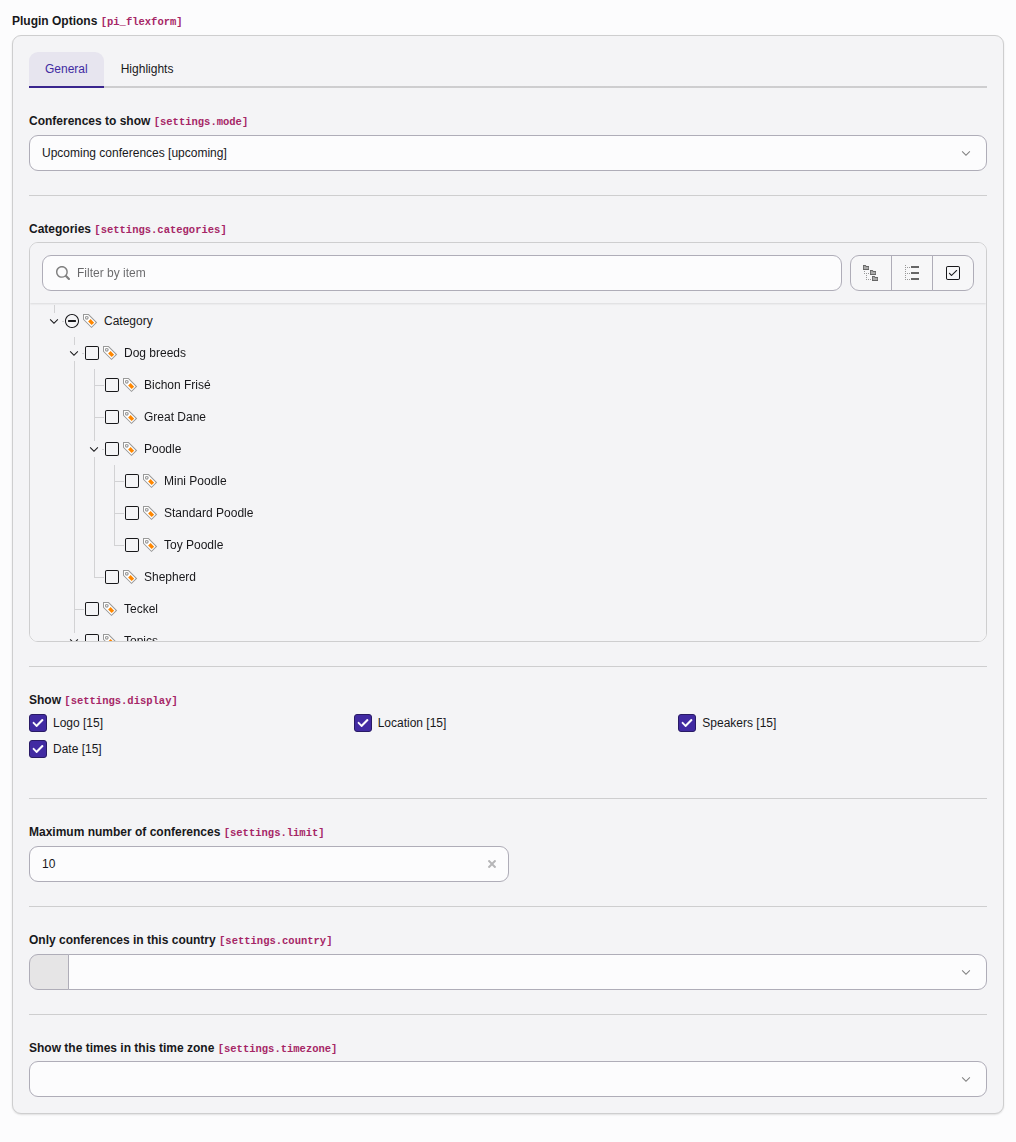
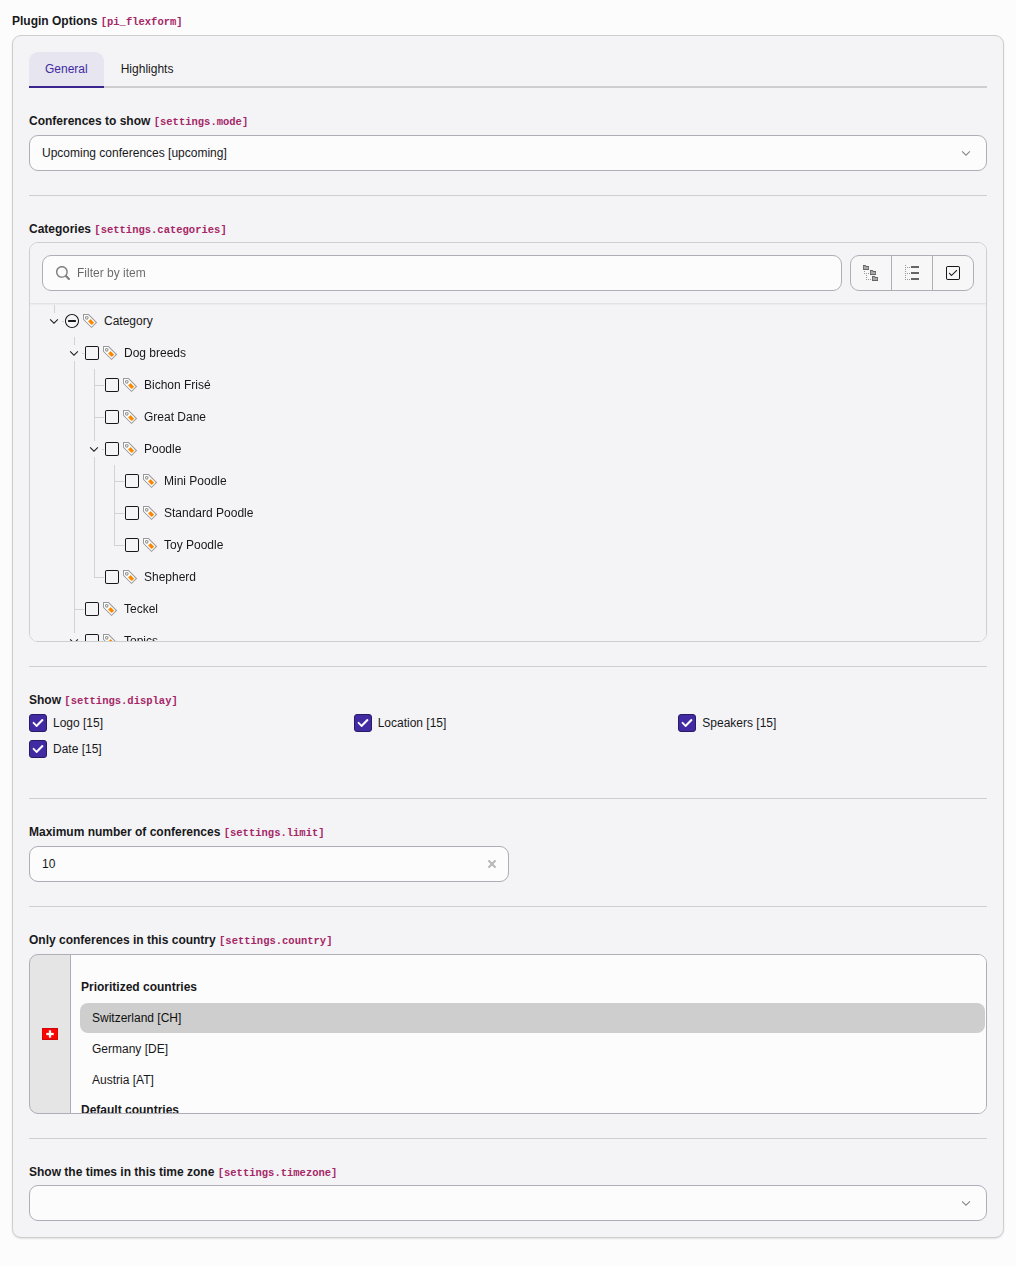
[Backport 14.3] [TASK] Replace the remaining manual screenshots with the conference extension (#1659)
The manual screenshots of the password generator, the country size, the
default language differences, and the custom form wizard showed records
of the styleguide or of tt_content. Nobody can take them again for a new
TYPO3 version. The conference extension now provides these screenshots:

- A new field wizard above the conference form shows how many records
  refer to the conference. It replaces the wizard snippets of the ctrl
  examples.
- The FlexForm of the plugin shows the country field as a box with a
  size of 4.
- After the translation, a track is added to the default conference, so
  that the translation shows the difference.
- The password screenshots show a generated password and the field after
  saving.

On 14.3, make screenshots takes the screenshots from TYPO3 14.3.

Releases: main, 14.3
Assisted-by: Claude Opus 5.5 <noreply@anthropic.com>
(cherry picked from commit fb77076b97bedaabc33cb62917a4d34afa7beb62)

diff --git a/Documentation/CodeSnippets/my_extension/Classes/Form/FieldWizard/ReferencesToThisRecordWizard.php b/Documentation/CodeSnippets/my_extension/Classes/Form/FieldWizard/ReferencesToThisRecordWizard.php
@@ -1,0 +1,40 @@
+<?php
+
+declare(strict_types=1);
+
+namespace MyVendor\MyExtension\Form\FieldWizard;
+
+use TYPO3\CMS\Backend\Form\AbstractNode;
+use TYPO3\CMS\Core\Database\ReferenceIndex;
+use TYPO3\CMS\Core\Localization\LanguageService;
+
+/**
+ * Shows above the form how many records refer to the edited record
+ */
+final class ReferencesToThisRecordWizard extends AbstractNode
+{
+  public function __construct(
+    private readonly ReferenceIndex $referenceIndex,
+  ) {}
+
+  public function render(): array
+  {
+    $result = $this->initializeResultArray();
+    $uid = (int)($this->data['databaseRow']['uid'] ?? 0);
+    if ($uid === 0) {
+      // A new record has no references yet
+      return $result;
+    }
+    $count = $this->referenceIndex->getNumberOfReferencedRecords($this->data['tableName'], $uid);
+    $result['html'] = '<p class="text-body-secondary">' . htmlspecialchars(sprintf(
+      $this->getLanguageService()->sL('my_extension.db:references'),
+      $count,
+    )) . '</p>';
+    return $result;
+  }
+
+  private function getLanguageService(): LanguageService
+  {
+    return $GLOBALS['LANG'];
+  }
+}

diff --git a/Build/Screenshots/create-records.php b/Build/Screenshots/create-records.php
@@ -78,7 +78,10 @@ $data['tt_content'] = [
     'NEWplugin' => [
         'pid' => 1, 'CType' => 'myextension_conferencelist', 'header' => 'Upcoming conferences',
         'pi_flexform' => ['data' => [
-            'sDEF' => ['lDEF' => ['settings.mode' => ['vDEF' => 'upcoming']]],
+            'sDEF' => ['lDEF' => [
+                'settings.mode' => ['vDEF' => 'upcoming'],
+                'settings.country' => ['vDEF' => 'CH'],
+            ]],
             'sHighlights' => ['lDEF' => [
                 'settings.introduction' => ['vDEF' => '<p>Meet the community in Basel and Leipzig.</p>'],
                 'settings.highlights' => ['el' => [
@@ -321,6 +324,12 @@ $process([
         ],
     ],
 ]);
+
+// A change of the default language after the translation, which the
+// translation shows as a difference
+$process(['tx_myextension_conference' => [$conference => [
+    'tracks' => "Backend\nFrontend\nCommunity\nEditing",
+]]]);
 
 // The label of a comment shows its creation date, which must not change
 // with every run

diff --git a/Documentation/CodeSnippets/my_extension/ext_localconf.php b/Documentation/CodeSnippets/my_extension/ext_localconf.php
@@ -6,6 +6,7 @@ use MyVendor\MyExtension\Evaluation\HashtagEvaluation;
 use MyVendor\MyExtension\Form\Element\BadgeNameElement;
 use MyVendor\MyExtension\Form\FieldInformation\InformationText;
 use MyVendor\MyExtension\Form\FieldInformation\TalkOrderInformation;
+use MyVendor\MyExtension\Form\FieldWizard\ReferencesToThisRecordWizard;
 use TYPO3\CMS\Extbase\Utility\ExtensionUtility;
 
 defined('TYPO3') or die();
@@ -42,4 +43,12 @@ $GLOBALS['TYPO3_CONF_VARS']['SYS']['formEngine']['nodeRegistry'][1791310000] = [
   'nodeName' => 'informationText',
   'priority' => 30,
   'class' => InformationText::class,
+];
+
+// The references to a conference above its form, see
+// Configuration/TCA/Overrides/101-tx_myextension_conference-references.php
+$GLOBALS['TYPO3_CONF_VARS']['SYS']['formEngine']['nodeRegistry'][1791320000] = [
+  'nodeName' => 'referencesToThisRecord',
+  'priority' => 30,
+  'class' => ReferencesToThisRecordWizard::class,
 ];

diff --git a/Documentation/CodeSnippets/my_extension/Configuration/TCA/Overrides/101-tx_myextension_conference-references.php b/Documentation/CodeSnippets/my_extension/Configuration/TCA/Overrides/101-tx_myextension_conference-references.php
@@ -1,0 +1,10 @@
+<?php
+
+defined('TYPO3') or die();
+
+// Above the form of a conference, show how many records refer to it
+$GLOBALS['TCA']['tx_myextension_conference']['ctrl']['container']['formWrapContainer']
+  ['fieldWizard']['referencesToThisRecord'] = [
+    // Registered in ext_localconf.php
+    'renderType' => 'referencesToThisRecord',
+  ];

diff --git a/Documentation/Ctrl/Examples.rst b/Documentation/Ctrl/Examples.rst
@@ -95,21 +95,30 @@ This disables the default `localizationStateSelector` fieldWizard of
 Add your own wizard
 -------------------
 
-Register an own node in a :file:`ext_localconf.php`:
+The form of a conference shows how many records refer to the conference.
+The `FormWrapContainer` renders this wizard above the fields:
 
-..  literalinclude:: _CodeSnippets/_WizardRegistration/_ext_localconf.php
+..  figure:: /Images/Conference/FieldWizardReferences.png
+    :alt: The number of records that refer to a conference above its form
+    :class: with-shadow
+
+    The number of records that refer to a conference above its form
+
+Register the node in the file :file:`ext_localconf.php`:
+
+..  literalinclude:: /CodeSnippets/my_extension/ext_localconf.php
     :caption: EXT:my_extension/ext_localconf.php
+    :emphasize-lines: 9,50-54
 
-Register the new node as `fieldWizard` of `tt_content` table in an
-:file:`Configuration/TCA/Overrides/tt_content.php` file:
+Add the node as a `fieldWizard` of the `formWrapContainer`:
 
-..  literalinclude:: _CodeSnippets/_WizardRegistration/_tca_overrides.php
-    :caption: EXT:my_extension/Configuration/TCA/Overrides/tt_content.php
+..  literalinclude:: /CodeSnippets/my_extension/Configuration/TCA/Overrides/101-tx_myextension_conference-references.php
+    :caption: EXT:my_extension/Configuration/TCA/Overrides/101-tx_myextension_conference-references.php
 
-In PHP, the node has to implement an interface, but can return any additional HTML which is rendered in the
-"OuterWrapContainer" between the record title and the field body when editing a record:
+The node extends `AbstractNode` and returns its HTML in the result array:
 
-..  include:: /Images/ManualScreenshots/OuterFieldWizard.rst.txt
+..  literalinclude:: /CodeSnippets/my_extension/Classes/Form/FieldWizard/ReferencesToThisRecordWizard.php
+    :caption: EXT:my_extension/Classes/Form/FieldWizard/ReferencesToThisRecordWizard.php
 
 ..  _tca-example-ctrl-container-inline:
 

diff --git a/Documentation/ColumnsConfig/Type/Flex/Examples.rst b/Documentation/ColumnsConfig/Type/Flex/Examples.rst
@@ -29,7 +29,7 @@ Notice the :xml:`<settings.mode>` tag in the DataStructure:
 
 ..  literalinclude:: /CodeSnippets/my_extension/Configuration/FlexForms/ConferenceList.xml
     :caption: EXT:my_extension/Configuration/FlexForms/ConferenceList.xml
-    :visible-lines: 1-29, 112-114, 156-157
+    :visible-lines: 1-29, 113-115, 157-158
     :emphasize-lines: 8
 
 It's clear that the contents of :xml:`<settings.mode>` is a direct reflection of
@@ -73,8 +73,8 @@ description:
 
 ..  literalinclude:: /CodeSnippets/my_extension/Configuration/FlexForms/ConferenceList.xml
     :caption: EXT:my_extension/Configuration/FlexForms/ConferenceList.xml
-    :visible-lines: 1-7, 112-120, 154-157
-    :emphasize-lines: 3, 115, 117-118
+    :visible-lines: 1-7, 113-121, 155-158
+    :emphasize-lines: 3, 116, 118-119
 
 Notice how the data of the two sheets are separated.
 
@@ -95,8 +95,8 @@ highlights, each with a title and a link:
 
 ..  literalinclude:: /CodeSnippets/my_extension/Configuration/FlexForms/ConferenceList.xml
     :caption: EXT:my_extension/Configuration/FlexForms/ConferenceList.xml
-    :visible-lines: 128-152
-    :emphasize-lines: 131, 133
+    :visible-lines: 129-153
+    :emphasize-lines: 132, 134
 
 ..  _columns-flex-example-rte:
 
@@ -108,5 +108,5 @@ tag of the field:
 
 ..  literalinclude:: /CodeSnippets/my_extension/Configuration/FlexForms/ConferenceList.xml
     :caption: EXT:my_extension/Configuration/FlexForms/ConferenceList.xml
-    :visible-lines: 121-127
-    :emphasize-lines: 125
+    :visible-lines: 122-128
+    :emphasize-lines: 126

diff --git a/Documentation/ColumnsConfig/Type/Country/Index.rst b/Documentation/ColumnsConfig/Type/Country/Index.rst
@@ -49,7 +49,7 @@ speaker. The localized name is displayed to the backend users.
 
         ..  literalinclude:: /CodeSnippets/my_extension/Configuration/FlexForms/ConferenceList.xml
             :caption: EXT:my_extension/Configuration/FlexForms/ConferenceList.xml
-            :visible-lines: 1-7, 79-90, 112-114, 156-157
+            :visible-lines: 1-7, 79-91, 113-115, 157-158
             :emphasize-lines: 82-83
 
 ..  _columns-country-example-extended:
@@ -79,8 +79,8 @@ and Switzerland, Germany, and Austria are listed first:
 
         ..  literalinclude:: /CodeSnippets/my_extension/Configuration/FlexForms/ConferenceList.xml
             :caption: EXT:my_extension/Configuration/FlexForms/ConferenceList.xml
-            :visible-lines: 1-7, 79-90, 112-114, 156-157
-            :emphasize-lines: 84-88
+            :visible-lines: 1-7, 79-91, 113-115, 157-158
+            :emphasize-lines: 85-89
 
 Additional countries can be added via the
 `BeforeCountriesEvaluatedEvent <https://docs.typo3.org/permalink/t3coreapi:beforecountriesevaluatedevent>`_.

diff --git a/Documentation/ColumnsConfig/CommonProperties/FieldWizard/DefaultLanguageDifferences.rst b/Documentation/ColumnsConfig/CommonProperties/FieldWizard/DefaultLanguageDifferences.rst
@@ -23,4 +23,8 @@ defaultLanguageDifferences
     This wizard is important for editors who maintain translated records: They can see what has been
     changed in their localization parent between the last save operation of the overlay.
 
-    ..  include:: /Images/ManualScreenshots/DefaultLanguageDifferences.rst.txt
+    ..  figure:: /Images/Conference/FieldWizardDefaultLanguageDifferences.png
+        :alt: The tracks of a translated conference with the track that was added to the default language
+        :class: with-shadow
+
+        The track "Community" was added to the default language after the translation

diff --git a/Documentation/ColumnsConfig/Type/Category/Examples.rst b/Documentation/ColumnsConfig/Type/Category/Examples.rst
@@ -61,5 +61,5 @@ lists only the conferences of the selected categories:
 
 ..  literalinclude:: /CodeSnippets/my_extension/Configuration/FlexForms/ConferenceList.xml
     :caption: EXT:my_extension/Configuration/FlexForms/ConferenceList.xml
-    :visible-lines: 1-7, 38-43, 112-114, 156-157
+    :visible-lines: 1-7, 38-43, 113-115, 157-158
     :emphasize-lines: 41

diff --git a/Documentation/ColumnsConfig/CommonProperties/ItemsProcessors.rst b/Documentation/ColumnsConfig/CommonProperties/ItemsProcessors.rst
@@ -88,5 +88,5 @@ Registration of processors is also possible inside FlexForms:
 
 ..  literalinclude:: /CodeSnippets/my_extension/Configuration/FlexForms/ConferenceList.xml
     :caption: EXT:my_extension/Configuration/FlexForms/ConferenceList.xml
-    :visible-lines: 91-111
-    :emphasize-lines: 102-109
+    :visible-lines: 92-112
+    :emphasize-lines: 103-110

diff --git a/Documentation/ColumnsConfig/Type/Input/Index.rst b/Documentation/ColumnsConfig/Type/Input/Index.rst
@@ -155,7 +155,7 @@ Register the class in :file:`ext_localconf.php`:
 
 ..  literalinclude:: /CodeSnippets/my_extension/ext_localconf.php
     :caption: EXT:my_extension/ext_localconf.php
-    :emphasize-lines: 20
+    :emphasize-lines: 21
 
 `returnFieldJS()` names a JavaScript module, which removes the `#` already
 while the editor types:

diff --git a/Documentation/ColumnsConfig/Type/Inline/Examples.rst b/Documentation/ColumnsConfig/Type/Inline/Examples.rst
@@ -154,7 +154,7 @@ type inline** - as it is a container.
 
     ..  literalinclude:: /CodeSnippets/my_extension/ext_localconf.php
         :caption: EXT:my_extension/ext_localconf.php
-        :emphasize-lines: 25-29
+        :emphasize-lines: 26-30
 
 #.  Add the fieldInformation to the container for containerRenderType inline
 
